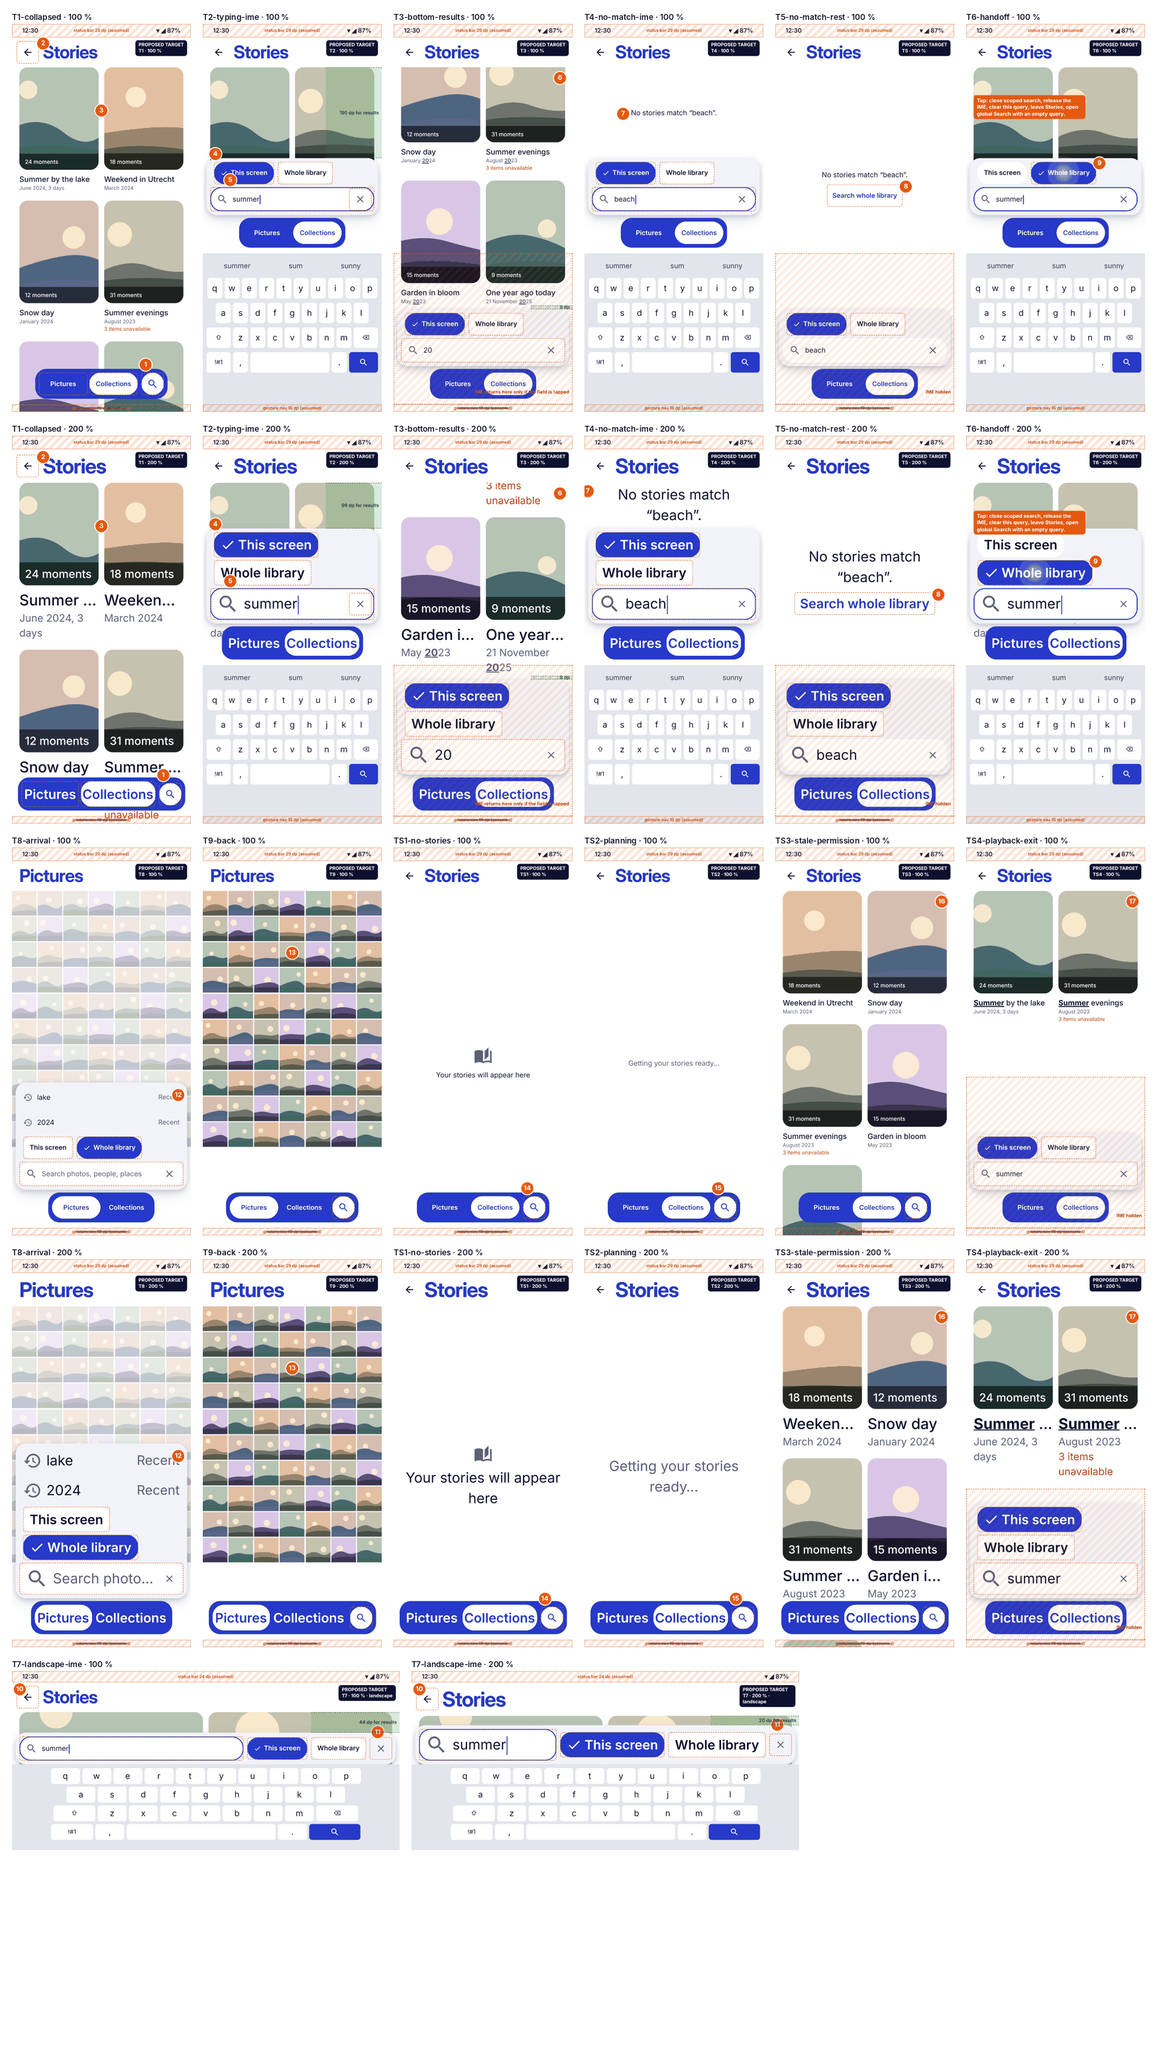
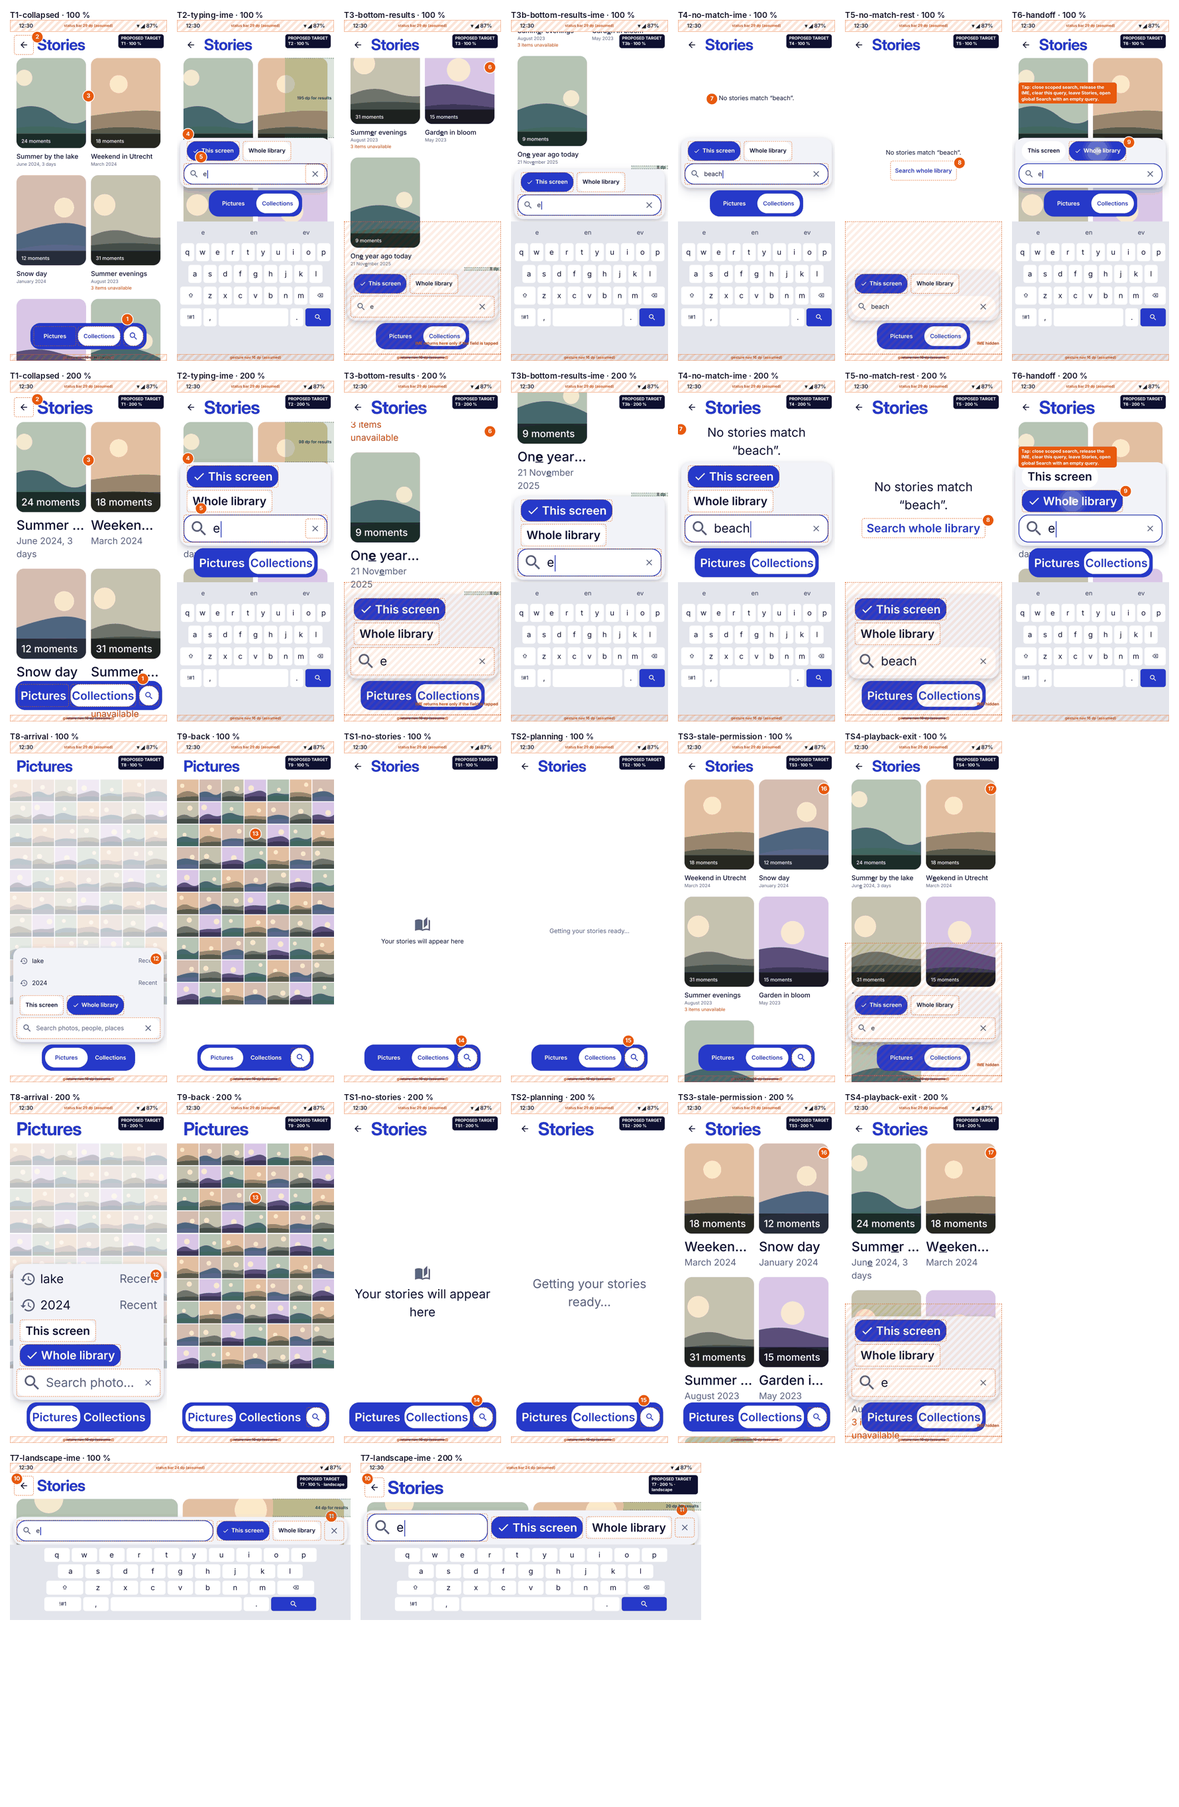
FIND-6D (#872): one query across T2/T3, add IME-raised T3b, report infeasible 200% IME clearance
Addresses review receipt at ce4c039: same-query journey, accurate IME clearance claim.

Claude-Session: https://claude.ai/code/session_01JsoPf4AYthowFYL5kEY8bG

diff --git a/docs/design/stories-search-175/render/target.html b/docs/design/stories-search-175/render/target.html
@@ -141,7 +141,7 @@ const header=(title='Stories')=>`<div class="header" id="hdr" style="top:${ST}px
 const tile=([t,c,m,u],q,k)=>`<div class="tile"><div class="cover">${art(k)}<div class="lab">${m} moments</div></div><div class="tt">${hl(t,q)}</div><div class="cp">${hl(c,q)}</div>${u?`<div class="ms">${u} items unavailable</div>`:''}</div>`;
 const tiles=(list,q)=>list.map(s=>tile(s,q,STORIES.indexOf(s))).join('');
 // results region: .wrap is clipped between the header and `bottom`; inner grid anchored at the top (scroll 0) or the end (scrolled to the end)
-const results=(list,q,mode='start')=>`<div class="wrap" id="wrap" style="top:${ST+HH}px;bottom:0"><div class="grid" id="grid" style="${mode==='end'?'bottom:0':'top:0'}">${tiles(list,q)}</div></div>`;
+const results=(list,q,mode='start')=>`<div class="wrap" id="wrap" style="top:${F==='T3b-bottom-results-ime'?ST:ST+HH}px;bottom:0"><div class="grid" id="grid" style="${mode==='end'?'bottom:0':'top:0'}">${tiles(list,q)}</div></div>`;
 function slab(active='Collections',sphere=true){
   return `<div class="slab" id="slab">${['Pictures','Collections'].map((n,i)=>`<div class="pill ${n===active?'on':''}" style="width:${PILLW[i]}px" data-t="${n}">${n}</div>`).join('')}${sphere?`<div class="sphere" id="sphere">${I.search}</div>`:''}</div>`;
 }
@@ -153,11 +153,11 @@ function panel(o={}){
   const note=o.note?`<div class="row note" id="note">${o.note}</div>`:'';
   return `<div class="panel" id="panel">${note}${recents}${chips(o.lib)}<div class="qbar ${o.focus?'focus':''}" id="qbar" data-t="Search field">${I.search}${body}${x}</div></div>`;
 }
-function ime(){const r=s=>`<div class="kr">${[...s].map(c=>`<div class="k">${c}</div>`).join('')}</div>`;return `<div class="ime" id="ime" style="height:${IMEH+NB}px">${LAND?'':'<div class="sug"><span>summer</span><span>sum</span><span>sunny</span></div>'}${r('qwertyuiop')}${r('asdfghjkl')}<div class="kr"><div class="k w">⇧</div>${[...'zxcvbnm'].map(c=>`<div class="k">${c}</div>`).join('')}<div class="k w">⌫</div></div><div class="kr"><div class="k w">!#1</div><div class="k">,</div><div class="k sp"></div><div class="k">.</div><div class="k go">${I.search.replace('<svg','<svg style="width:20px;height:20px;fill:currentColor"')}</div></div></div>`}
+function ime(){const r=s=>`<div class="kr">${[...s].map(c=>`<div class="k">${c}</div>`).join('')}</div>`;return `<div class="ime" id="ime" style="height:${IMEH+NB}px">${LAND?'':'<div class="sug"><span>e</span><span>en</span><span>ev</span></div>'}${r('qwertyuiop')}${r('asdfghjkl')}<div class="kr"><div class="k w">⇧</div>${[...'zxcvbnm'].map(c=>`<div class="k">${c}</div>`).join('')}<div class="k w">⌫</div></div><div class="kr"><div class="k w">!#1</div><div class="k">,</div><div class="k sp"></div><div class="k">.</div><div class="k go">${I.search.replace('<svg','<svg style="width:20px;height:20px;fill:currentColor"')}</div></div></div>`}
 const under=()=>NB?`<div class="navbar" id="navbar" style="height:${NB}px"><i></i></div>`:'';
 // ---- frames ------------------------------------------------------------------------------------
 let main='', stackHtml='', tag='', hasIme=false, noStack=false;
-const Q='summer';
+const Q='e'; // one query for T2, T3, T3b, T6, T7 and TS4: 5 of 6 stories match, so the results are 3 rows long
 switch(F){
 case 'T1-collapsed': // Stories, search sphere at rest in the L4 slab
   main=header()+results(STORIES,'','start'); stackHtml=slab('Collections',true)+under();
@@ -166,8 +166,11 @@ case 'T2-typing-ime': // IME up, query typed, first result row only
   hasIme=true; main=header()+results(match(Q),Q,'start'); stackHtml=panel({q:Q,focus:true})+slab('Collections',false)+ime();
   tag='T2 · Target: bar + chips above the slab on the IME; only this deck is filtered'; break;
 case 'T3-bottom-results': // IME dismissed by dragging the results; scrolled to the end
-  main=header()+results(match('20'),'20','end'); stackHtml=panel({q:'20',focus:false})+slab('Collections',false)+under();
+  main=header()+results(match(Q),Q,'end'); stackHtml=panel({q:Q,focus:false})+slab('Collections',false)+under();
   tag='T3 · Target: drag hid the IME, bar stays; last matching tile wholly clear'; break;
+case 'T3b-bottom-results-ime': // same query and end of results, IME raised: only viable with slab hidden and the header scrolled away
+  hasIme=true; main=results(match(Q),Q,'end'); stackHtml=panel({q:Q,focus:true})+ime();
+  tag='T3b · Target: IME raised, end of results (slab hidden, header scrolled away)'; break;
 case 'T4-no-match-ime':
   hasIme=true; main=header()+`<div id="emptyslot"></div>`; stackHtml=panel({q:'beach',focus:true})+slab('Collections',false)+ime();
   tag='T4 · Target: no match, IME up. The Whole library chip is the one-tap action'; break;
@@ -208,9 +211,10 @@ else if(F==='TS2-planning') body+=`<div class="empty" id="empty" style="top:${ST
 body+=`<div class="stack" id="stack">${stackHtml}</div>`;
 R.innerHTML=body.replace(/<div id="emptyslot"><\/div>/,'');
 const $=id=>document.getElementById(id), rect=e=>e&&e.getBoundingClientRect();
+const HB=F==='T3b-bottom-results-ime'?ST:ST+HH;
 const stack=$('stack'), overlayTop=rect(stack).top; M.overlayTopDp=+overlayTop.toFixed(1);
-if(F==='T3-bottom-results')$('wrap').style.bottom=(H-overlayTop+8)+'px'; // contentPadding = bottom stack + 8 dp
-const HB=ST+HH, gridRegion=()=>({top:HB,bottom:overlayTop});
+if(F==='T3-bottom-results'||F==='T3b-bottom-results-ime')$('wrap').style.bottom=(H-overlayTop+8)+'px'; // contentPadding = bottom stack + 8 dp
+const  gridRegion=()=>({top:HB,bottom:overlayTop});
 // no-match / empty-state text sits in the free region above the stack
 if(F==='T4-no-match-ime'||F==='T5-no-match-rest'){
   const free=overlayTop-HB;
@@ -226,7 +230,7 @@ const rr=e=>{const r=rect(e);return {l:r.left,t:r.top,r:r.right,b:r.bottom,w:r.w
 const targets=[...document.querySelectorAll('[data-t],#back,#sphere,.pill,.chip')].filter(e=>e.id!=='note');
 M.targets=targets.map(e=>{const r=rr(e);return {name:e.dataset.t||e.id||e.textContent.trim().slice(0,24),w:+r.w.toFixed(1),h:+r.h.toFixed(1)}});
 M.minTargetDp=Math.min(...M.targets.map(t=>Math.min(t.w,t.h)));
-if($('chiprow')){const c=rr($('chiprow')), ps=rr($('panel'));M.chipRows=new Set([...document.querySelectorAll('.chip')].map(e=>Math.round(rr(e).t))).size;M.chipsInsidePanel=[...document.querySelectorAll('.chip')].every(e=>rr(e).r<=ps.r-8+1&&rr(e).l>=ps.l);M.chipLabelsClipped=[...document.querySelectorAll('.chip')].some(e=>e.scrollWidth>e.clientWidth+1);M.panelTopDp=+ps.t.toFixed(1);M.panelBelowHeader=ps.t>=ST+HH-0.5;M.panelHeightDp=+ps.h.toFixed(1);M.panelWidthDp=+ps.w.toFixed(1);}
+if($('chiprow')){const c=rr($('chiprow')), ps=rr($('panel'));M.chipRows=new Set([...document.querySelectorAll('.chip')].map(e=>Math.round(rr(e).t))).size;M.chipsInsidePanel=[...document.querySelectorAll('.chip')].every(e=>rr(e).r<=ps.r-8+1&&rr(e).l>=ps.l);M.chipLabelsClipped=[...document.querySelectorAll('.chip')].some(e=>e.scrollWidth>e.clientWidth+1);M.panelTopDp=+ps.t.toFixed(1);M.panelBelowHeader=ps.t>=HB-0.5;M.panelHeightDp=+ps.h.toFixed(1);M.panelWidthDp=+ps.w.toFixed(1);}
 if($('slab')){const s=rr($('slab'));M.slabWidthDp=+s.w.toFixed(1);M.slabTopDp=+s.t.toFixed(1);M.slabHeightDp=+s.h.toFixed(1);M.slabBottomAboveInsetDp=+((H-NB-(hasIme?IMEH:0))-s.b).toFixed(1);M.slabInsideScreen=s.l>=0&&s.r<=W;}
 if($('qbar')){const b=rr($('qbar'));M.qbarHeightDp=+b.h.toFixed(1);}
 // results clearance: wholly visible tiles between the header and the bottom stack
@@ -261,6 +265,8 @@ case 'T2-typing-ime': tgt($('qbar'));tgt($('close'));document.querySelectorAll('
 case 'T3-bottom-results': document.querySelectorAll('.chip').forEach(tgt);tgt($('qbar'));
   clearBand(rr(document.querySelectorAll('.tile')[document.querySelectorAll('.tile').length-1]).b,overlayTop,`${M.lastTileClearAboveStackDp.toFixed(0)} dp`,W-90,W);
   imeZone('IME returns here only if the field is tapped');badge(6,W-40,HB+10);break;
+case 'T3b-bottom-results-ime': document.querySelectorAll('.chip').forEach(tgt);tgt($('qbar'));
+  {const t=document.querySelectorAll('.tile');const lb=rr(t[t.length-1]).b;clearBand(lb,overlayTop,`${M.lastTileClearAboveStackDp.toFixed(0)} dp`,W-90,W);}badge(18,W-40,ST+6);break;
 case 'T4-no-match-ime': document.querySelectorAll('.chip').forEach(tgt);tgt($('qbar'));badge(7,rr($('nmtxt')).l-30,rr($('nmtxt')).t);imeZone('IME 324 dp');break;
 case 'T5-no-match-rest': tgt($('nmbtn'));document.querySelectorAll('.chip').forEach(tgt);badge(8,rr($('nmbtn')).r-6,rr($('nmbtn')).t-8);imeZone('IME hidden');break;
 case 'T6-handoff':{const c=rr($('libchip'));document.body.insertAdjacentHTML('beforeend',`<div class="ripple" style="left:${c.l+c.w/2-40}px;top:${c.t+c.h/2-40}px;width:80px;height:80px"></div>`);tgt($('libchip'));badge(9,c.r-6,c.t-10);

diff --git a/docs/design/stories-search-175/render/contact_sheet_target.py b/docs/design/stories-search-175/render/contact_sheet_target.py
@@ -3,8 +3,8 @@
 import sys
 from PIL import Image,ImageDraw,ImageFont
 d,theme,out,scale=sys.argv[1],sys.argv[2],sys.argv[3],float(sys.argv[4])
-order=["T1-collapsed","T2-typing-ime","T3-bottom-results","T4-no-match-ime","T5-no-match-rest","T6-handoff","T8-arrival","T9-back","TS1-no-stories","TS2-planning","TS3-stale-permission","TS4-playback-exit"]
-tw=int(1080*scale); th=int(2340*scale); pad=int(24*scale*3); cols=6
+order=["T1-collapsed","T2-typing-ime","T3-bottom-results","T3b-bottom-results-ime","T4-no-match-ime","T5-no-match-rest","T6-handoff","T8-arrival","T9-back","TS1-no-stories","TS2-planning","TS3-stale-permission","TS4-playback-exit"]
+tw=int(1080*scale); th=int(2340*scale); pad=int(24*scale*3); cols=7
 bg=(255,255,255) if theme=="light" else (16,16,24); fg=(20,20,40) if theme=="light" else (230,230,240)
 try: f=ImageFont.truetype("/usr/share/fonts/opentype/inter/Inter-SemiBold.otf",max(12,int(40*scale)))
 except Exception: f=None

diff --git a/docs/design/stories-search-175/README.md b/docs/design/stories-search-175/README.md
@@ -7,7 +7,7 @@ Owner words: “all places where one can search, one has access to the full suit
 | Set | What it is | Where |
 |---|---|---|
 | **Current main** | What ships today: legacy four-tab pill, header search icon, `AtlasSearch` popup. Each frame carries the label “CURRENT MAIN (legacy shell, not the target)”. Not an identity-compliant design. | [`frames/`](frames/) (14 frames × light/dark, 1.7× font in S4), contact sheets [light](contact-sheet-light.png) · [dark](contact-sheet-dark.png) |
-| **Proposed target** | Quiet Frame v3 composition: two-place slab with search sphere (L4), search bar above the slab (L7), shared `AtlasSearch` scope chips. Each frame carries “PROPOSED TARGET”. Not on `main`; shipping it needs L4 #657 and L7 #660 first. | [`frames/target/`](frames/target/) (13 frames × 100 % / 200 % × light/dark = 52 PNGs, plus `metrics.json`), contact sheets [light](contact-sheet-target-light.png) · [dark](contact-sheet-target-dark.png) |
+| **Proposed target** | Quiet Frame v3 composition: two-place slab with search sphere (L4), search bar above the slab (L7), shared `AtlasSearch` scope chips. Each frame carries “PROPOSED TARGET”. Not on `main`; shipping it needs L4 #657 and L7 #660 first. | [`frames/target/`](frames/target/) (14 frames × 100 % / 200 % × light/dark = 56 PNGs, plus `metrics.json`), contact sheets [light](contact-sheet-target-light.png) · [dark](contact-sheet-target-dark.png) |
 
 Frame size: every portrait frame is exactly 1080 × 2340 px (384 × 832 dp at 2.8125), landscape 2340 × 1080. Annotation colour: orange = numbered badges, dashed 48 dp touch targets and assumed insets; green = measured clearance; dark label = frame code; hatched dashed band = where the IME would be (when hidden).
 
@@ -16,18 +16,21 @@ Frame size: every portrait frame is exactly 1080 × 2340 px (384 × 832 dp at 2.
 | Preflight finding | Repair here | Evidence |
 |---|---|---|
 | **6 · 200 % scope control clipped** (`Whole library` cut off in a non-wrapping 360 dp row) | Target: the scope chips live in the L7 panel (352 dp inner width) and **wrap to a second row** when they do not fit; each chip is at least 48 dp tall, label never clipped, selected state kept. Measured: 1 row at 100 %, 2 rows at 200 %, zero clipped labels. Current-main S4 stays as the **documented defect** (still clipped at 1.7×), because `AtlasSearch` on `main` is unchanged. | `T2`, `T3`, `T4`, `T6` at 200 %; `metrics.json` `chipRows`, `chipLabelsClipped`; [S4](frames/S4-large-text-light.png) |
-| **6 · IME hides the last match** | Measured finding below: with the IME up there is **no room** for a whole tile, so the repair is a rule, not padding alone: results get bottom content padding equal to the whole bottom stack, **and the first drag on the results hides the IME** (bar and query stay). `T3` shows the end of the results with the last tile wholly clear. | `T2` vs `T3`; `metrics.json` `resultRegionDp`, `lastTileClearAboveStackDp` |
+| **6 · IME hides the last match** | **Partly repaired; one acceptance detail is infeasible and routed to Strategy** (see below). The same query (`e`, 5 of 6 stories, three rows) is used in T2, T3, T3b, T6 and TS4. With the IME up the last tile cannot be wholly above the bottom stack at 200 %; at 100 % it can only if the slab is hidden and the header scrolled away (T3b). Without the IME the last tile is 8 dp above the bar at both scales (T3). | `T2`, `T3`, `T3b`; `metrics.json` `lastTileClearAboveStackDp`, `lastTileWhollyClear` |
 | **8 · legacy shell contradicts Quiet Frame v3** | Target frames use the approved slab + sphere + bar composition; legacy frames are labelled as current main only. Hand-off semantics from #824 are kept. | All `T*` frames |
 
-### IME capacity (measured, 384 × 832 dp, IME 324 dp + 16 dp gesture inset, assumed)
+### IME capacity (measured, 384 × 832 dp, IME 324 dp + 16 dp gesture inset, assumed; query `e`)
 
-| Font | Bar panel | Slab | Free for results above the stack | One Story tile | Consequence |
-|---|---|---|---|---|---|
-| 100 % | 122 dp (one chip row) | 64 dp, rides the IME like L7 A1 | **195 dp** | 284 dp | A whole tile cannot fit; first row cover and title are visible (T2). |
-| 200 % | 204 dp (two chip rows) | 71 dp | **98 dp** | 372 dp | Only the top of the first cover (T2). Back and the bar stay reachable; the panel does not cover the header (checked). |
-| Landscape 100 % / 200 % | 68 / 84 dp (one row) | hidden | **44 / 20 dp** | n/a | Results are effectively behind the IME; they return when the IME hides (T7). |
+| Layout (IME raised) | Free for results | One Story tile | Last tile wholly above the stack? |
+|---|---|---|---|
+| 100 %, slab rides the IME (L7 A1), header visible (T2) | 195 dp | 268 dp | **No** |
+| 100 %, slab hidden, header scrolled away, scrolled to the end (**T3b**) | 335 dp | 268 dp | **Yes**, 8 dp clear |
+| 200 %, slab rides the IME, header visible (T2) | 98 dp | 340 dp | **No** |
+| 200 %, slab hidden, header scrolled away, scrolled to the end (**T3b**) | 253 dp | 340 dp | **No**: infeasible even with everything else hidden |
+| Landscape 100 % / 200 % (T7) | 44 / 20 dp | 268 / 340 dp | **No** |
+| IME hidden by the first drag, scrolled to the end (**T3**) | 519 dp (100 %) / 422 dp (200 %) | 268 / 340 dp | **Yes**, 8 dp clear at both scales |
 
-So “the last matching tile above the IME” is delivered by the **IME-dismiss-on-drag rule** plus bottom content padding: at rest after a drag (IME hidden) the last tile is **8 dp above the bar** at both scales (T3: 100 % region 519 dp, 200 % region 422 dp). Tapping the field again raises the IME over the lower part; it does not move the bar, and the next drag hides it again. **Implementation prerequisite for #804, not asserted as done:** Stories must (1) set content padding to the measured stack height + 8 dp, (2) hide the IME on results drag, (3) keep the 8 dp padding when the IME is hidden by the Search key or Back.
+**Finding.** #872 asks to prove the final matching tile can move wholly above the portrait IME. Measured, that is achievable at 100 % only by hiding the slab (a deviation from L7 A1, where the slab rides the IME) and scrolling the header away (Back then relies on the system gesture), and it is **infeasible at 200 %** at any layout, because the IME (340 dp), the wrapped bar panel (204 dp) and one 340 dp tile exceed the 832 dp screen. This is therefore **not claimed as met**. Proposed requirement for #804, pending a Strategy or owner decision on the acceptance wording: (1) content padding = bottom stack + 8 dp; (2) the first drag on the results hides the IME while the bar and query stay (T3, viable at both scales); (3) the same padding when the IME is hidden by the Search key or Back; (4) optionally the T3b layout at 100 %. Tapping the field again raises the IME over the lower part and the next drag hides it. No frame here pretends the IME-raised 200 % case works.
 
 ### Adaptation decisions (source → observed/proposed)
 
@@ -44,8 +47,8 @@ So “the last matching tile above the IME” is delivered by the **IME-dismiss-
 | State | Frame | Query owner and value | Scope | Focus / IME | Back goes to | Kept or discarded |
 |---|---|---|---|---|---|---|
 | Collapsed | T1 | none | n/a | none | closes Stories (#457) | deck, scroll |
-| Bar open, typing | T2 | Stories-local, “summer” | This screen | field focused, IME up | hides the IME | deck unchanged, never widened |
-| After drag | T3 | same | This screen | field unfocused, IME hidden | closes the bar and clears the query | scroll position kept |
+| Bar open, typing | T2 | Stories-local, “e” | This screen | field focused, IME up | hides the IME | deck unchanged, never widened |
+| After drag | T3 (IME hidden), T3b (IME raised, 100 % only) | same, “e” | This screen | field unfocused, IME hidden | closes the bar and clears the query | scroll position kept |
 | No match, IME up | T4 | “beach” | This screen | IME up | hides the IME | the Whole library chip is the one-tap action |
 | No match, IME hidden | T5 | “beach” | This screen | IME hidden (Search key) | closes the bar | button **Search whole library** repeats the chip |
 | Whole library tapped | T6 | cleared | Library | IME released, focus leaves | n/a | Stories exits; query and bar discarded; playback restore cleared |
@@ -75,7 +78,7 @@ node docs/design/stories-search-175/render/render.mjs --target     # target set 
 node docs/design/stories-search-175/render/render.mjs --check      # measures every target frame, asserts the rules, compares metrics.json
 python3 docs/design/stories-search-175/render/contact_sheet_target.py docs/design/stories-search-175/frames/target light docs/design/stories-search-175/contact-sheet-target-light.png 0.25
 ```
-`--check` asserts: every touch target at least 48 dp, no clipped chip label, chips inside the panel, panel never covers the header, slab inside the screen and 12 dp above the inset, slab 359 dp wide at 200 % (L4), chips wrap at 200 %, empty-state text fits, the last tile in T3 is wholly clear, and `metrics.json` equals a fresh measurement. Committed PNGs are reduced to 256 colours with Pillow.
+`--check` asserts: every touch target at least 48 dp, no clipped chip label, chips inside the panel, panel never covers the header, slab inside the screen and 12 dp above the inset, slab 359 dp wide at 200 % (L4), chips wrap at 200 %, empty-state text fits, the last tile in T3 is wholly clear, T3b fits at 100 % and is pinned as not fitting at 200 %, and `metrics.json` equals a fresh measurement. Committed PNGs are reduced to 256 colours with Pillow.
 
 ---
 
@@ -86,6 +89,7 @@ python3 docs/design/stories-search-175/render/contact_sheet_target.py docs/desig
 | 1 / 2 / 3 | T1 | Search sphere (48 dp, in the slab) / Back 48 dp / Stories grid unchanged |
 | 4 / 5 | T2 | Scope chips (both 48 dp+) / field with Close, focused |
 | 6 | T3 | Final matching tile is 8 dp above the bar (green band), IME hidden by the drag |
+| 18 | T3b | Same results and query with the IME raised: slab hidden, header scrolled away; fits at 100 % only |
 | 7 | T4 | No-match copy sits in the free region; chip is the action |
 | 8 | T5 | **Search whole library** button, 48 dp |
 | 9 | T6 | Tap on Whole library: the handoff |
